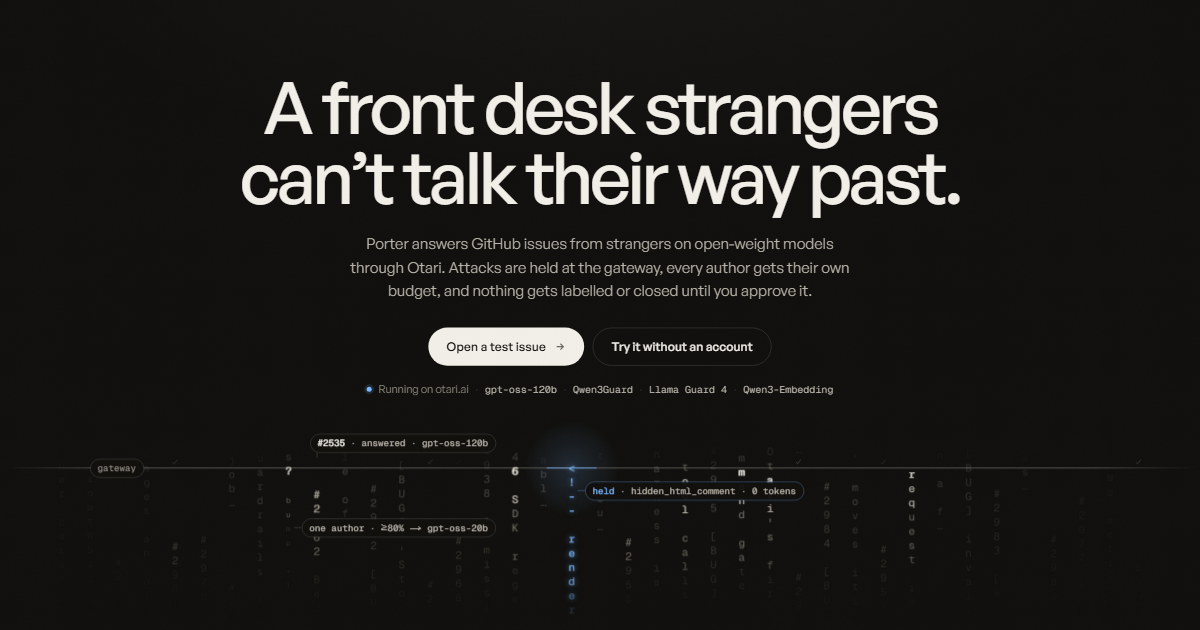
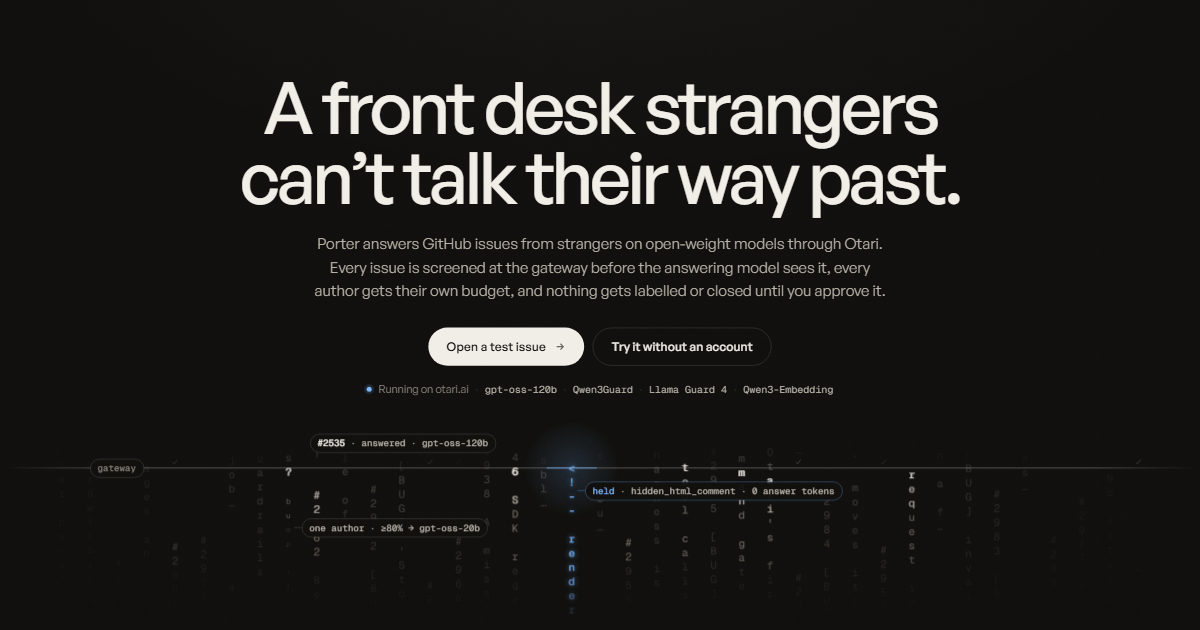
Copy: every issue is screened, a hold spends 0 answer tokens
Only what the guard flags is held, so the subline, meta description and
Open Graph text now say every issue is screened at the gateway before the
answering model sees it. Held labels read "0 answer tokens" and the Hold step
names the guard models that still run. The subline is set wider so it keeps
three lines and the field its share of the first screen. Open Graph image
recaptured.

Changed region(s): [[0.2467, 0.3619, 0.74, 0.4825], [0.3083, 0.8143, 0.4008, 0.8444], [0.6475, 0.754, 0.7092, 0.7841]]

diff --git a/tests/ui/landing.test.tsx b/tests/ui/landing.test.tsx
@@ -24,6 +24,11 @@ describe("landing page", () => {
     vi.stubEnv("NEXT_PUBLIC_DEMO_REPO", "");
     render(<Home />);
     expect(screen.getByRole("heading", { level: 1 }).textContent).toBe("A front desk strangers can’t talk their way past.");
+    expect(screen.getByText(/^Porter answers GitHub issues/).textContent?.replace(/\s+/g, " ")).toBe(
+      "Porter answers GitHub issues from strangers on open-weight models through Otari. Every issue is screened at the " +
+        "gateway before the answering model sees it, every author gets their own budget, and nothing gets labelled or " +
+        "closed until you approve it.",
+    );
     expect(screen.getByRole("link", { name: /Open a test issue/ }).getAttribute("href")).toBe("/try");
     expect(screen.getByRole("link", { name: "Try it without an account" }).getAttribute("href")).toBe("/try");
     const proof = screen.getByText("Running on otari.ai").parentElement as HTMLElement;
@@ -43,6 +48,10 @@ describe("landing page", () => {
     render(<Home />);
     const how = screen.getByRole("region", { name: /Strangers can type anything/ });
     expect(within(how).getAllByRole("heading", { level: 3 }).map((h) => h.textContent)).toEqual(["Hold", "Answer", "Approve"]);
+    // a hold spends no answer tokens; the guard's own classifiers still run, and the page says so
+    expect(how.textContent).toContain("held · 0 answer tokens · screened by Qwen3Guard + gpt-oss-safeguard");
+    expect(how.textContent).toContain("spends nothing from its author’s budget");
+    expect(how.textContent).not.toMatch(/· 0 tokens/);
     const runs = screen.getByRole("region", { name: "What runs where" });
     const terms = [...runs.querySelectorAll("dt")].map((d) => d.textContent);
     expect(terms).toEqual([

diff --git a/app/page.tsx b/app/page.tsx
@@ -78,8 +78,9 @@ export default function Home() {
             A front desk strangers can’t talk their way past.
           </h1>
           <p className="sub enter d2">
-            Porter answers GitHub issues from strangers on open-weight models through Otari. Attacks are held at the gateway,
-            every author gets their own budget, and nothing gets labelled or closed until you approve it.
+            Porter answers GitHub issues from strangers on open-weight models through Otari. Every issue is screened at the
+            gateway before the answering model sees it, every author gets their own budget, and nothing gets labelled or closed
+            until you approve it.
           </p>
           <div className="ctas enter d3">
             <Cta className="btn btn-p" href={issueHref}>
@@ -162,9 +163,9 @@ export default function Home() {
                 <span className="n">01</span>
                 <h3>Hold</h3>
               </div>
-              <p>A caught issue stops at the line: it never reaches the answering model, costs its author nothing, and waits for a maintainer.</p>
+              <p>A caught issue stops at the line: it never reaches the answering model, spends nothing from its author’s budget, and waits for a maintainer.</p>
               <p className="data">
-                <b>held</b> · 0 tokens · Qwen3Guard · gpt-oss-safeguard
+                <b>held</b> · 0 answer tokens · screened by Qwen3Guard + gpt-oss-safeguard
                 <br />
                 hidden_html_comment · bidi_override · role_block
                 {figures && (

diff --git a/tests/ui/chassis.test.tsx b/tests/ui/chassis.test.tsx
@@ -4,7 +4,9 @@ import { afterEach, describe, expect, it, vi } from "vitest";
 
 const path = vi.hoisted(() => ({ current: "/" }));
 vi.mock("next/navigation", () => ({ usePathname: () => path.current }));
+vi.mock("geist/font/mono", () => ({ GeistMono: { variable: "mono" } }));
 
+import { metadata } from "../../app/layout";
 import { Footer } from "../../components/site/Footer";
 import { Nav } from "../../components/site/Nav";
 import { REPO_URL, openIssueHref } from "../../components/site/links";
@@ -49,5 +51,16 @@ describe("openIssueHref", () => {
   });
   it("falls back to /try when unset or not an owner/repo name", () => {
     for (const v of [undefined, "", "   ", "porter", "a/b/c", "../evil", "https://evil.example/x"]) expect(openIssueHref(v)).toBe("/try");
+  });
+});
+
+describe("metadata", () => {
+  it("says every issue is screened, not that every attack is held", () => {
+    const texts = [metadata.description, metadata.openGraph?.description, metadata.twitter?.description];
+    for (const t of texts) {
+      expect(t).toMatch(/Every issue is screened at the gateway before the answering model sees it/);
+      expect(t).not.toMatch(/Attacks are held/);
+    }
+    expect(metadata.title).toMatchObject({ default: "Porter" });
   });
 });

diff --git a/tests/ui/field.test.ts b/tests/ui/field.test.ts
@@ -12,8 +12,8 @@ const signals = heroData.attacks.map((a) => a.signal);
 const issueNumbers = new Set(heroData.issues.map(([n]) => `#${n}`));
 const ALLOWED = [
   /^gateway$/,
-  /^held · ([a-z_]+) · 0 tokens$/,
-  /^held · 0 tokens$/,
+  /^held · ([a-z_]+) · 0 answer tokens$/,
+  /^held · 0 answer tokens$/,
   /^(#\d+) · answered · gpt-oss-120b$/,
   /^one author · own daily budget$/,
   /^one author · ≥80% → gpt-oss-20b$/,
@@ -67,7 +67,7 @@ describe("hero field", () => {
       expect(t).not.toMatch(/\$/);
       const rule = ALLOWED.find((r) => r.test(t));
       expect(rule, t).toBeDefined();
-      const held = /^held · ([a-z_]+) · 0 tokens$/.exec(t);
+      const held = /^held · ([a-z_]+) · 0 answer tokens$/.exec(t);
       if (held) expect(signals).toContain(held[1]);
       const answered = /^(#\d+) · answered/.exec(t);
       if (answered) expect(issueNumbers.has(answered[1])).toBe(true);

diff --git a/app/layout.tsx b/app/layout.tsx
@@ -12,8 +12,9 @@ import "./globals.css";
 const SANS_PRELOAD = ["/fonts/GeneralSans-Medium.woff2", "/fonts/GeneralSans-Regular.woff2"];
 
 const DESCRIPTION =
-  "Porter answers GitHub issues from strangers on open-weight models through Otari. Attacks are held at the gateway, " +
-  "every author gets their own budget, and nothing gets labelled or closed until a maintainer approves it.";
+  "Porter answers GitHub issues from strangers on open-weight models through Otari. Every issue is screened at the gateway " +
+  "before the answering model sees it, every author gets their own budget, and nothing gets labelled or closed until a " +
+  "maintainer approves it.";
 
 export const metadata: Metadata = {
   metadataBase: new URL(SITE_URL),

diff --git a/components/hero/data.ts b/components/hero/data.ts
@@ -27,7 +27,8 @@ export const heroData = heroJson as HeroData;
 /**
  * Facts the labels state. All are configuration, not measurements:
  * the porter-triage routing policy serves gpt-oss-120b and moves an author to gpt-oss-20b from 80% of
- * their budget; end-user budgets reset daily at UTC midnight; a gateway hold never reaches a model.
+ * their budget; end-user budgets reset daily at UTC midnight; a gateway hold never reaches the answering
+ * model, so it spends no answer tokens (the guard's own classifiers still run).
  */
 export const FACTS = {
   triageModel: "gpt-oss-120b",

diff --git a/components/hero/field.ts b/components/hero/field.ts
@@ -171,8 +171,8 @@ export class GlyphField {
   }
   holdParts(h: { s: Seg }): Part[] {
     return this.mobile
-      ? [["held", "ice"], [" · 0 tokens", "ink2"]]
-      : [["held", "ice"], [` · ${h.s.atk?.signal ?? "injection"} · 0 tokens`, "ink2"]];
+      ? [["held", "ice"], [" · 0 answer tokens", "ink2"]]
+      : [["held", "ice"], [` · ${h.s.atk?.signal ?? "injection"} · 0 answer tokens`, "ink2"]];
   }
   burstParts(stage: number): Part[] {
     if (stage === 3) return [["refused", "ice"], [` · resets ${FACTS.resets}`, "ink2"]];

diff --git a/tests/ui/glyph-gate.test.tsx b/tests/ui/glyph-gate.test.tsx
@@ -64,7 +64,7 @@ describe("GlyphGate", () => {
     const drawn = canvas.texts.filter((t) => [...t].length > 1).join("\n");
     expect(drawn).toContain("gateway");
     expect(drawn).toMatch(/^held$/m);
-    expect(drawn).toMatch(/ · [a-z_]+ · 0 tokens/);
+    expect(drawn).toMatch(/ · [a-z_]+ · 0 answer tokens/);
     expect(drawn).toContain(" · answered · gpt-oss-120b");
     expect(drawn).not.toContain("$");
   });

diff --git a/app/landing.css b/app/landing.css
@@ -28,7 +28,8 @@
   font-size: var(--text-lead);
   line-height: 1.55;
   color: var(--ink-2);
-  max-width: 620px;
+  /* three lines at desktop sizes, so the field keeps its share of the first screen */
+  max-width: 700px;
   margin: 24px auto 0;
   text-wrap: pretty;
 }
